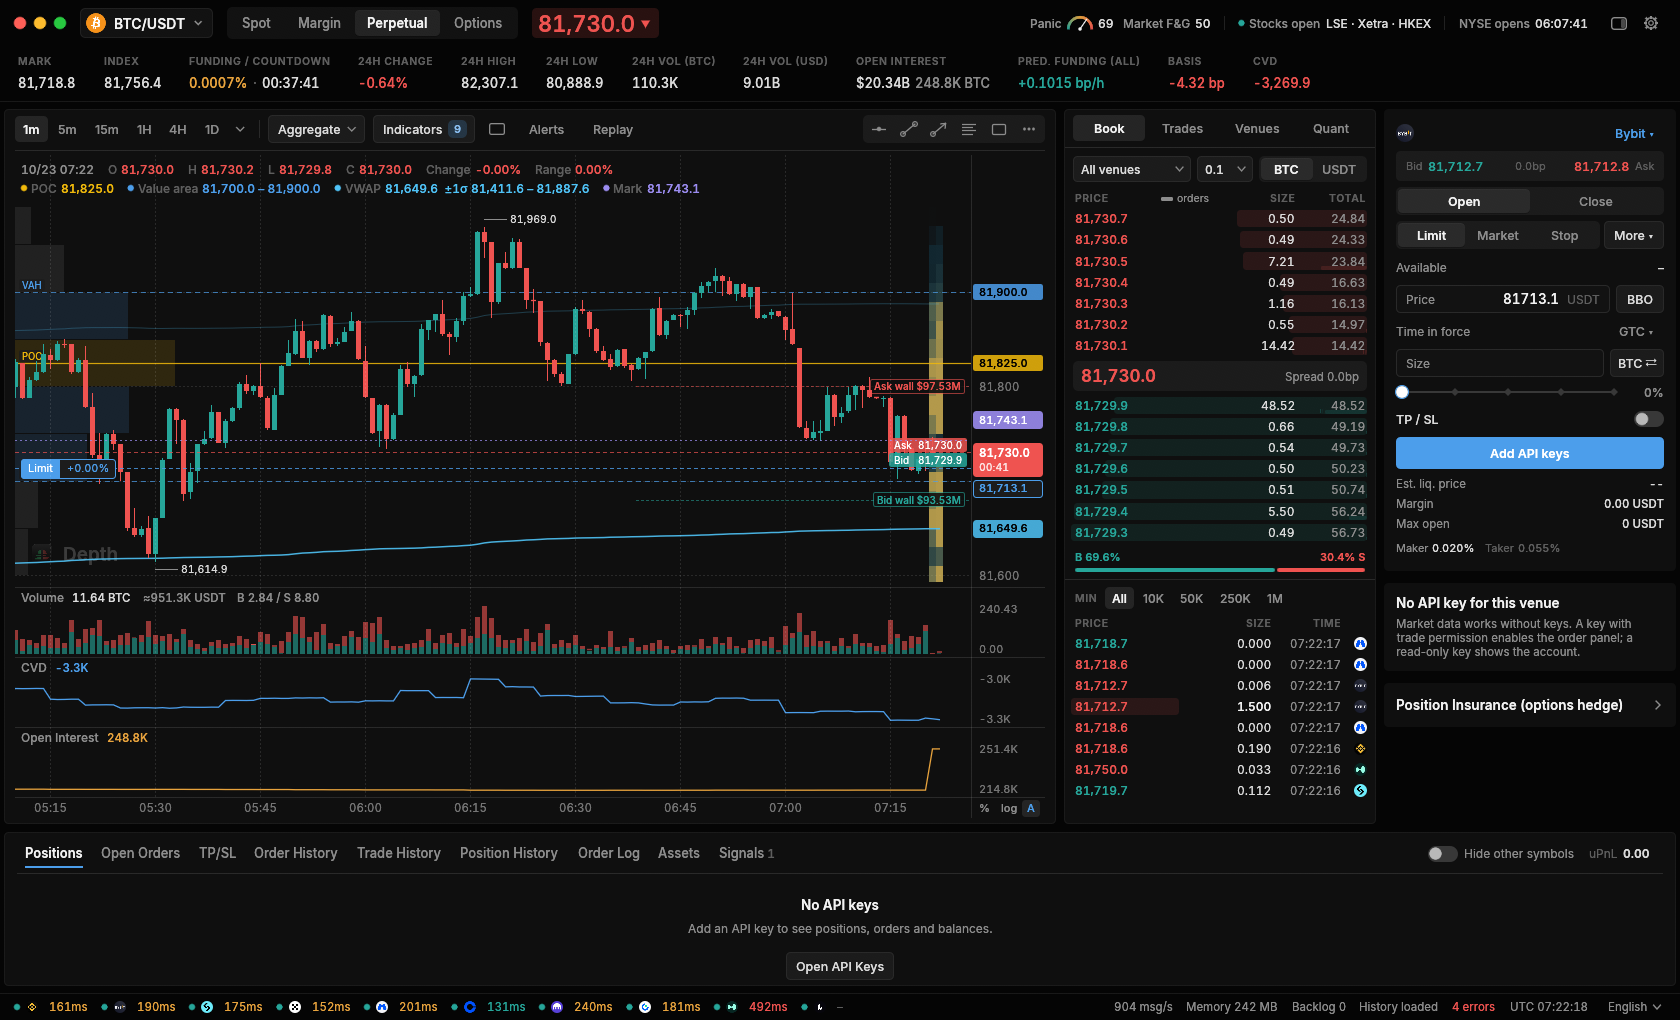
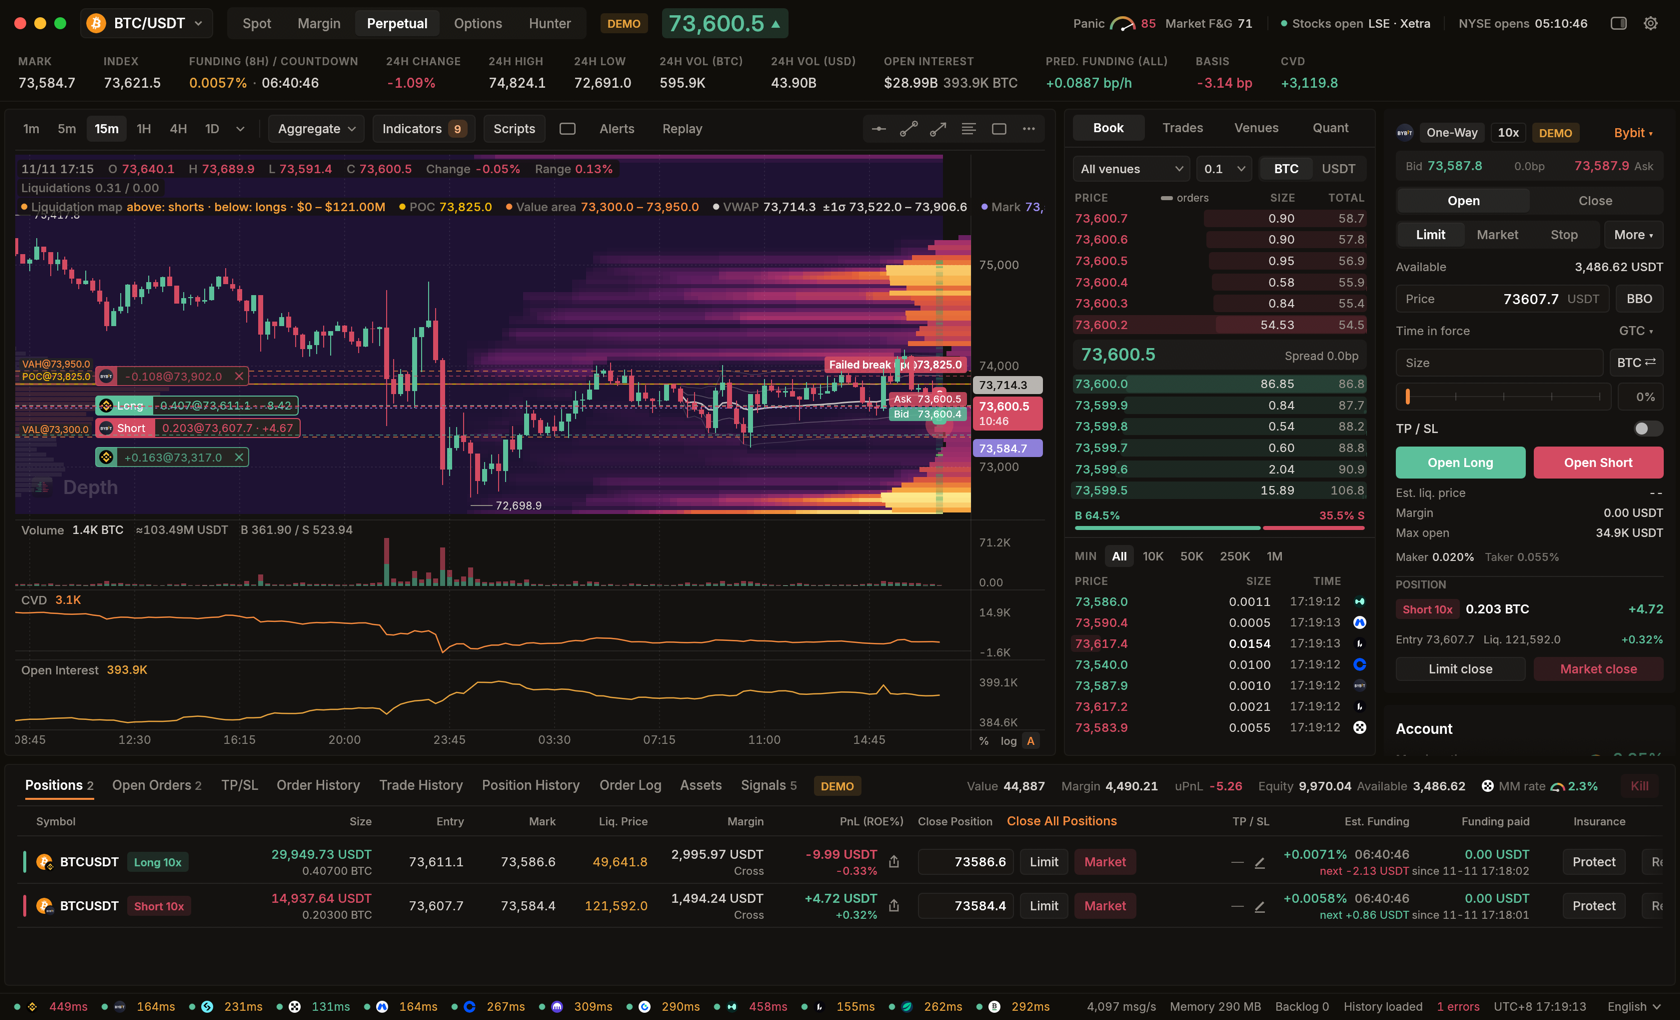
README picture: demo positions, liquidation map and book heatmap; T1_DEMO_SEED places demo orders for it
T1_DEMO_SEED=1 (with the demo account, screenshot runs) places a few demo orders once Binance, Bybit and OKX perps
have a book: longs on Binance and OKX, a short on Bybit, a resting buy and sell 0.4% off the mid. The README picture
is taken with it (BTC 15m, dark): positions and orders in the account strip and on the chart.

diff --git a/ui/src/lib.rs b/ui/src/lib.rs
@@ -348,6 +348,8 @@ pub struct App {
     /// screenshot request from env: (path, after seconds)
     shot: Option<(String, f64)>,
     shot_sent: bool,
+    /// T1_DEMO_SEED: the demo orders were placed
+    demo_seeded: bool,
     started: Instant,
     last_frame: Instant,
     /// order routing policy (Settings > Trading), persisted
@@ -458,7 +460,7 @@ impl App {
             eng, prefs, settings: Default::default(), command: Default::default(), back: None, help: false, kbd: kbd::Kbd::start(), tray: None, pop: None, saved: (saved, Instant::now()), unreadable, prev_kept: false, window: st.window, mode, chart, book, opt: Default::default(), picker, trade, spot: Default::default(),
             rate: (Instant::now(), 0, 0.0),
             shot: env("T1_SHOT").map(|p| (p, env("T1_SHOT_AFTER").and_then(|s| s.parse().ok()).unwrap_or(30.0))),
-            shot_sent: false, started: Instant::now(), last_frame: Instant::now(),
+            shot_sent: false, demo_seeded: false, started: Instant::now(), last_frame: Instant::now(),
             route: st.route.clone().unwrap_or_default(), pending_base: None, pending_mode: None, pending_restart: false,
             layout, cell: st.cell.unwrap_or(0), others: st.charts.unwrap_or_default(), fills_key: Default::default(), log_seen: now_ms(), fill_seen: 0,
             st: (Default::default(), Instant::now(), true), order: Default::default(), hot_trade: vec![], venue_toggle: None, coins_preloaded: false, order_panel: st.order_panel.unwrap_or(true), top: Default::default(), venue_pages: Default::default(),
@@ -855,8 +857,34 @@ impl App {
             });
         });
     }
+    /// T1_DEMO_SEED=1 with the demo account (screenshots, README pictures): once Binance, Bybit and OKX perps have a
+    /// book, a few demo orders on the base: longs on Binance and OKX and a short on Bybit at market, a resting buy and
+    /// sell 0.4% off the mid; sizes in USD notional. Demo orders only reach the simulator.
+    fn demo_seed(&mut self, ctx: &egui::Context) {
+        if self.demo_seeded || !depth::demo::on() || std::env::var("T1_DEMO_SEED").is_err() { return; }
+        let mids: Vec<f64> = {
+            let a = self.eng.agg.lock().unwrap();
+            [Exchange::Binance, Exchange::Bybit, Exchange::Okx].iter()
+                .filter_map(|e| a.venues.get(&(*e, Market::Perp)).and_then(|v| v.book_mid())).collect()
+        };
+        let [bin, byb, okx] = mids[..] else { return };
+        self.demo_seeded = true;
+        let sym = depth::trade::symbol(&self.eng.base);
+        let req = |pos: depth::Side, kind: depth::trade::Kind, usd: f64, px: f64| depth::trade::OrderReq {
+            symbol: sym.clone(), pos, close: false, kind, qty: usd / px, client_id: None, attach: None };
+        use depth::{trade::{Kind, Tif}, Side::{Buy, Sell}};
+        for (ex, r, px) in [
+            (Exchange::Binance, req(Buy, Kind::Market, 30_000.0, bin), bin),
+            (Exchange::Bybit, req(Sell, Kind::Market, 15_000.0, byb), byb),
+            (Exchange::Okx, req(Buy, Kind::Market, 10_000.0, okx), okx),
+            (Exchange::Binance, req(Buy, Kind::Limit { price: (bin * 0.996).round(), tif: Tif::Gtc }, 12_000.0, bin), bin),
+            (Exchange::Bybit, req(Sell, Kind::Limit { price: (byb * 1.004).round(), tif: Tif::Gtc }, 8_000.0, byb), byb),
+        ] { self.eng.submit(ex, r, px, ctx); }
+    }
+
     /// T1_SHOT=<png path> [T1_SHOT_AFTER=<s>]: save one screenshot and exit (used for visual checks).
     fn screenshot(&mut self, ctx: &egui::Context) {
+        self.demo_seed(ctx);
         let Some((path, after)) = self.shot.clone() else { return };
         if !self.shot_sent && self.started.elapsed().as_secs_f64() > after {
             ctx.send_viewport_cmd(egui::ViewportCommand::Screenshot(Default::default()));

diff --git a/README.md b/README.md
@@ -9,7 +9,7 @@ A local, multi-exchange crypto trading terminal for macOS, Windows and Linux. Tw
 aggregated into one book, one tape and one chart, with order entry on the venues you hold keys for.
 Everything runs on your machine: no relay, no server, no account.
 
-![Depth: BTC perpetual across every venue](docs/screenshot.png)
+![Depth: BTC perpetual across every venue, with the liquidation map, book heatmap and demo positions](docs/screenshot.png)
 
 ## What it does
 
